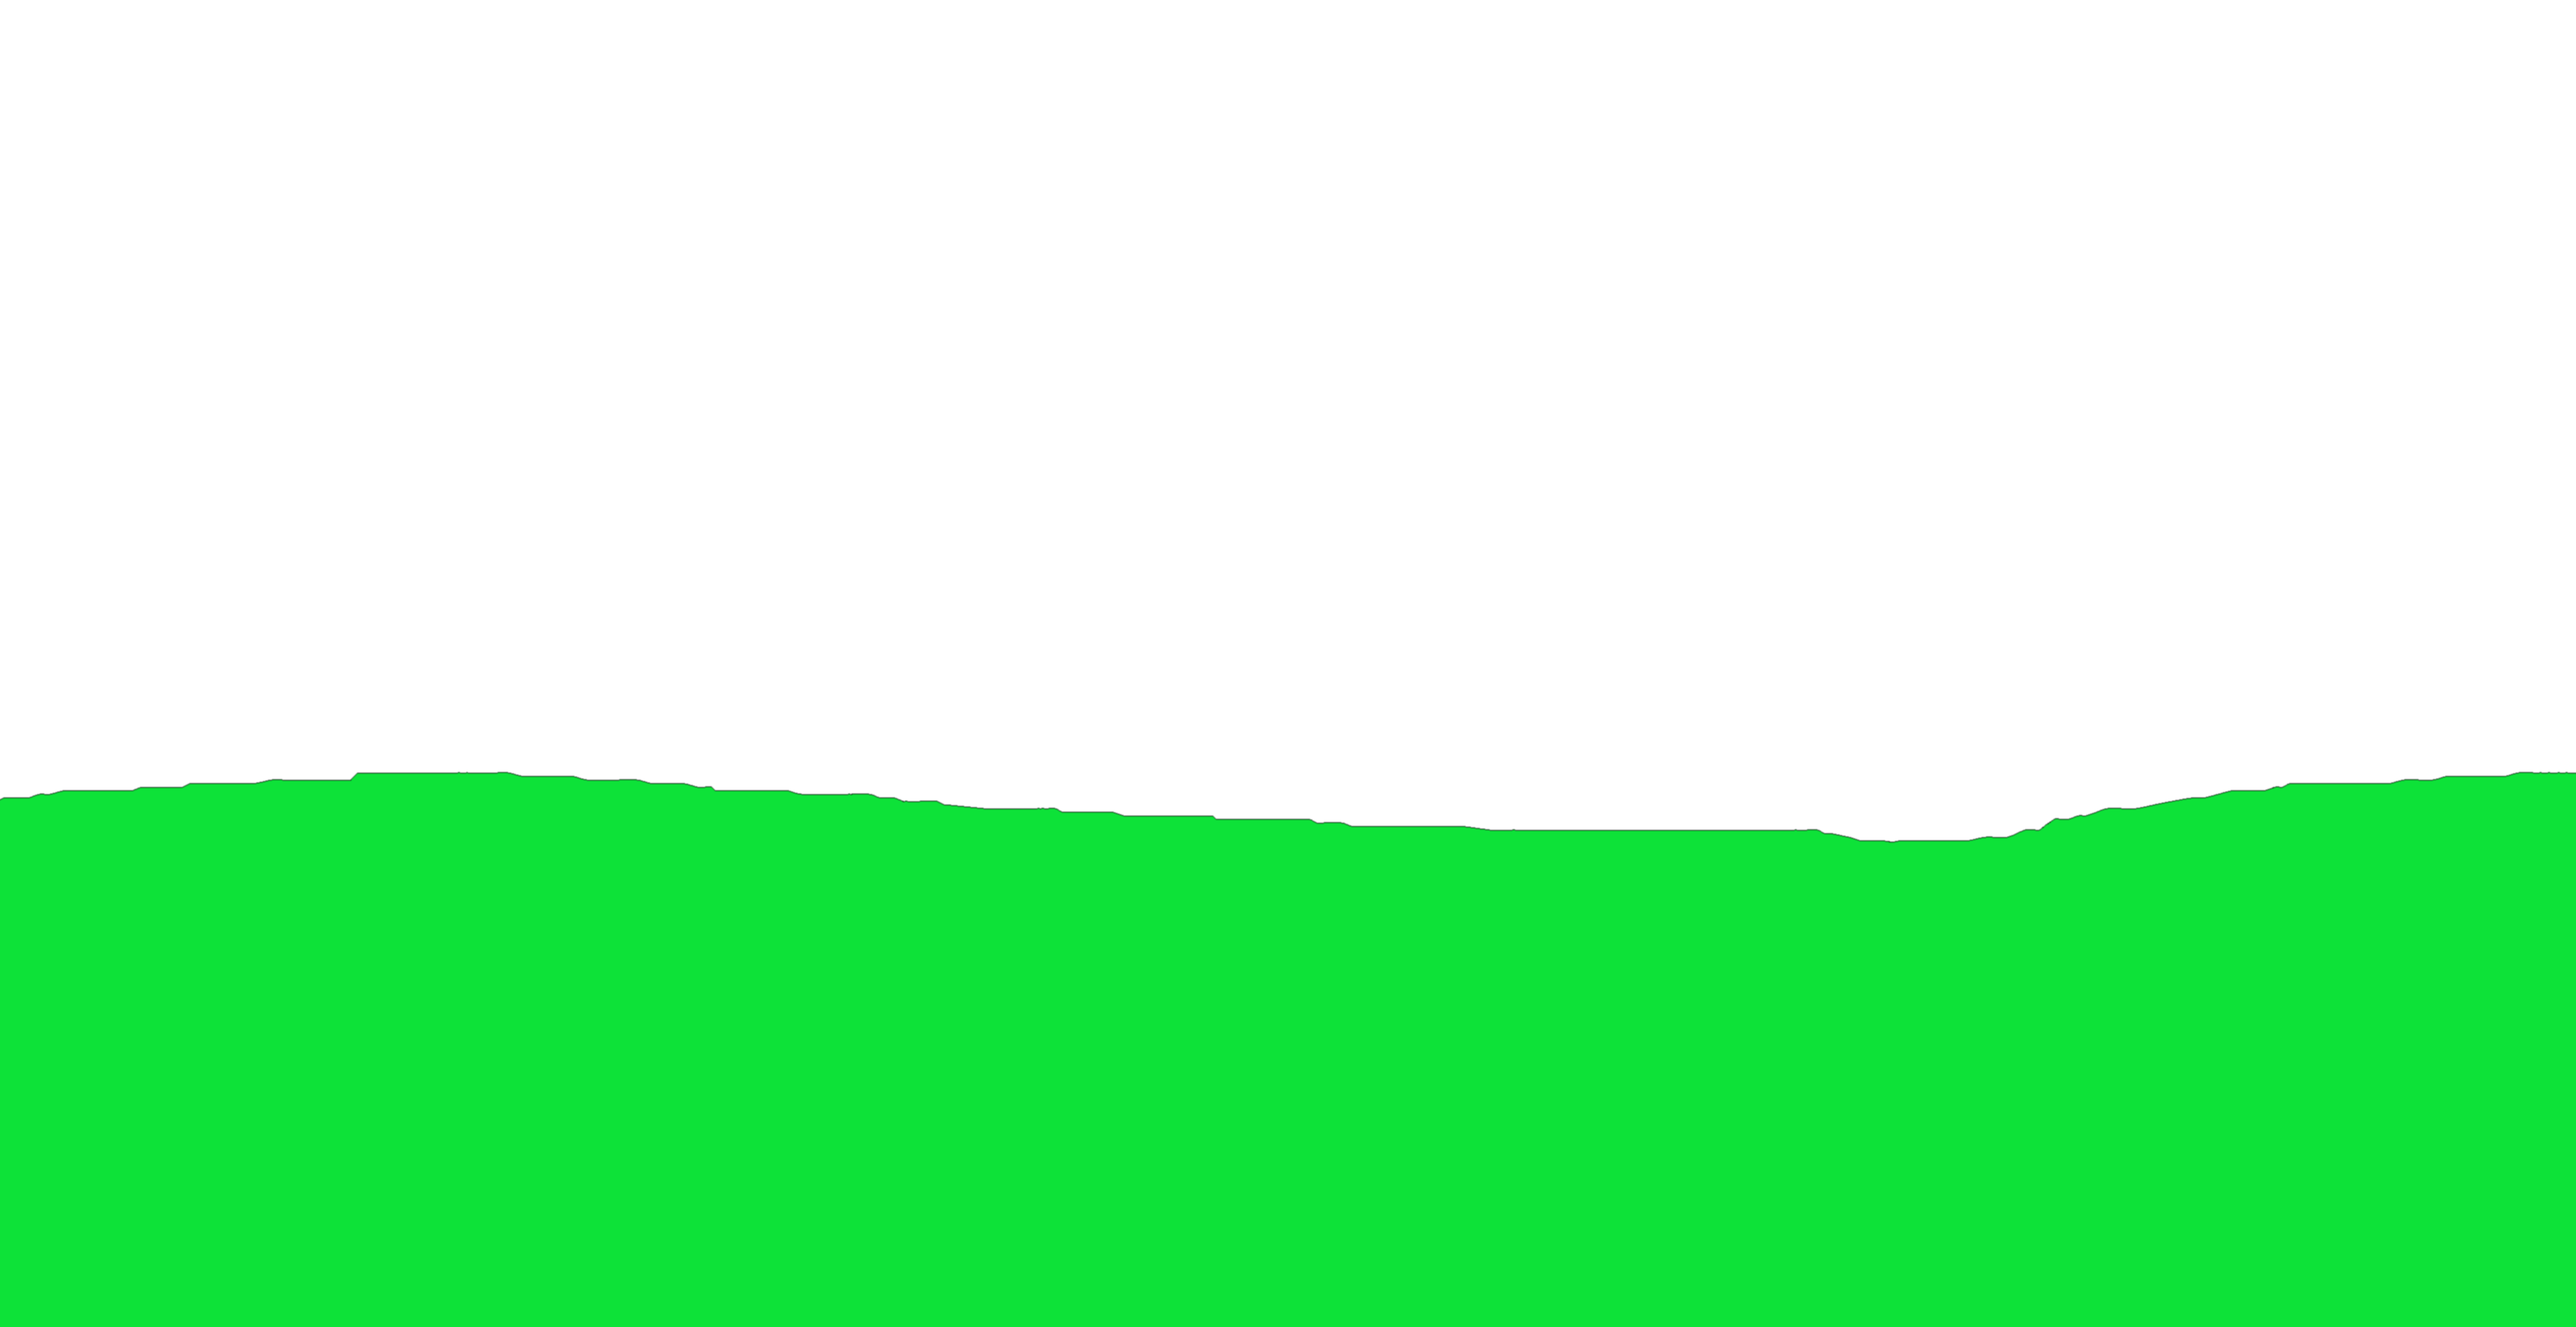
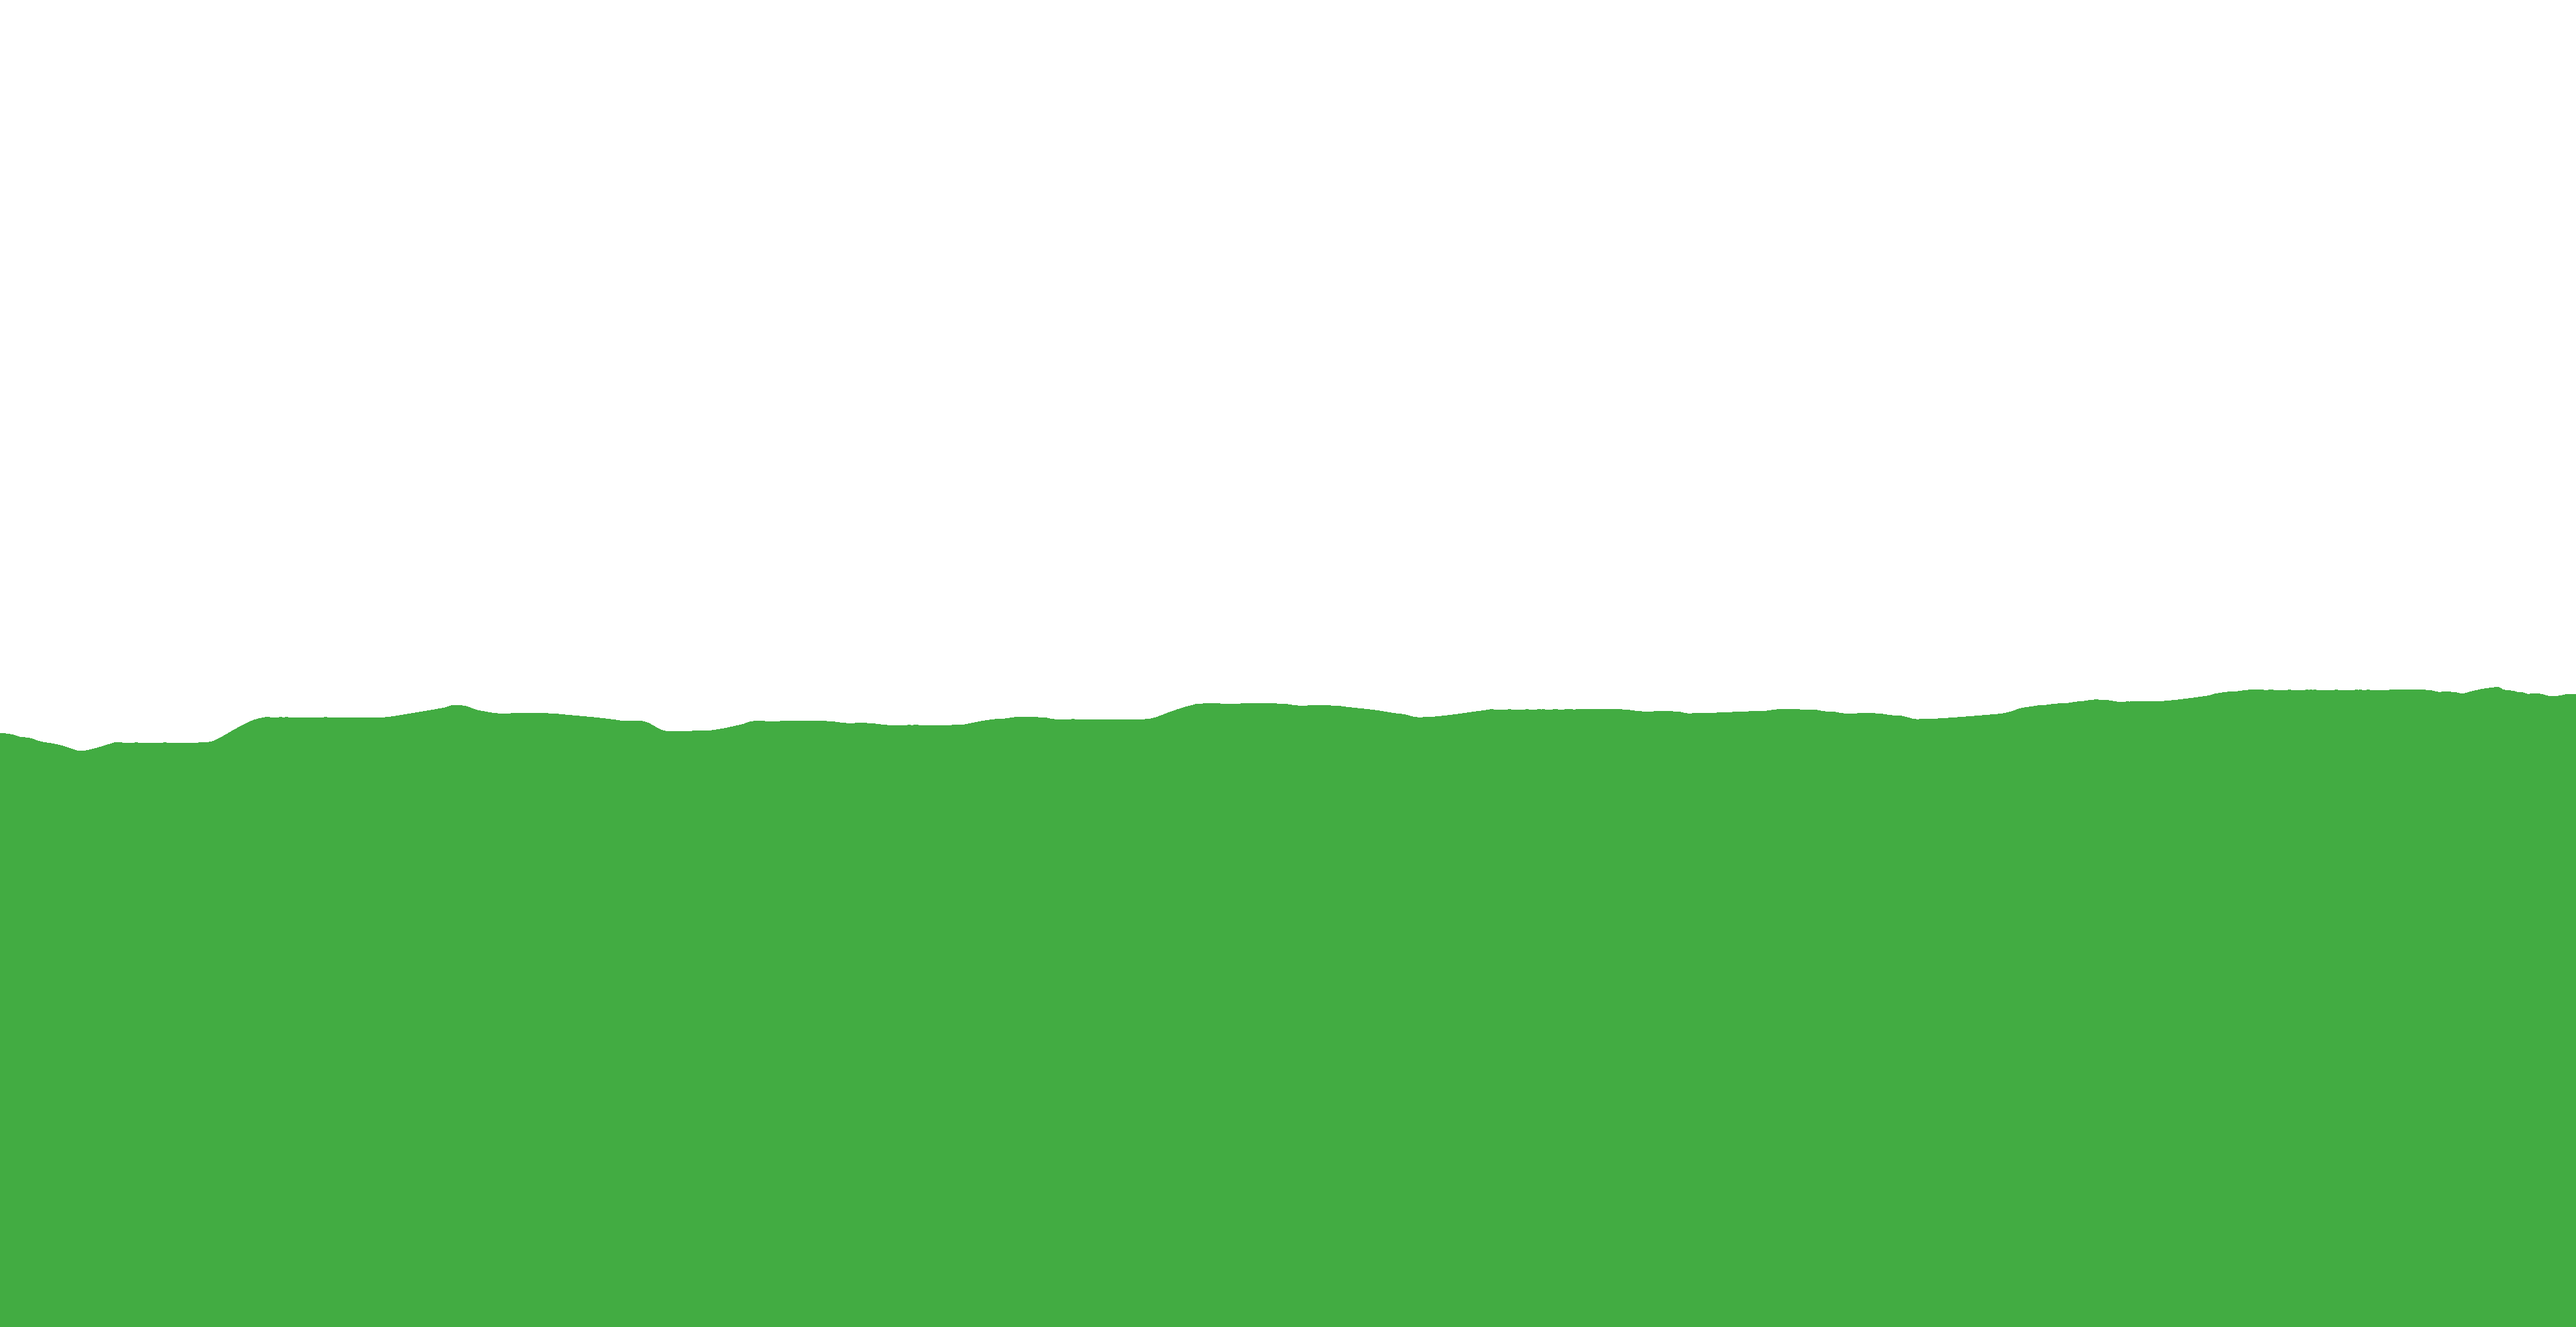
background improvements

diff --git a/app/affinity-engine/stage/scenes/main.js b/app/affinity-engine/stage/scenes/main.js
@@ -14,7 +14,7 @@ export default Scene.extend({
     script.layer('engine.stage').transition({ opacity: 0 }, 0);
     yield this.martian.transition({ bottom: 0, left: '50%', translateX: '-100%', '@media (max-width: 500px)': { bottom: '-1%', left: 0, translateX: '-30%' } }, 0);
     this.stars.transition({ scaleX: 0.98, scaleY: 0.98, translateY: '0.1vh', translateX: '0.1vw' }, 0);
-    this.ground.transition({ scaleX: 0.65, scaleY: 0.65, translateX: '0.5vw' }, 0);
+    this.ground.transition({ scaleX: 0.65, scaleY: 0.65, translateX: '0.5vw', translateY: '20vh' }, 0);
     script.layer('engine.stage.foreground').transition({ scaleX: 0.37, scaleY: 0.37, translateX: '1%', translateY: '15%' }, 0);
     this.martian.fadeIn();
     this.stars.fadeIn();
@@ -54,7 +54,7 @@ export default Scene.extend({
 
   b1: task(function * (script) {
     this.stars.transition({ scaleX: 1, scaleY: 1, translateX: 0, translateY: 0 }, 10000, { easing: 'easeInOut' });
-    this.ground.transition({ scaleX: 1, scaleY: 1, translateX: 0, translateY: '30vh' }, 10000, { easing: 'easeInOut' });
+    this.ground.transition({ scaleX: 1, scaleY: 1, translateX: 0, translateY: '60vh' }, 10000, { easing: 'easeInOut' });
     script.layer('engine.stage.foreground').transition({ scaleX: 1, scaleY: 1, translateX: 0, translateY: 0 }, 10000, { easing: 'easeInOut' });
     yield this.martian.pose('worried')._.text("Yes? [[pause 500]] It's really quite remarkable to see one of your kind again. [[pose sad]] [[pause 250]] I'd heard reports that you'd gone extinct.");
     const choice = yield script.menu(["Uh, I'm not a dinosaur.", "Actually, dinosaurs <em>are</em> extinct."]);
